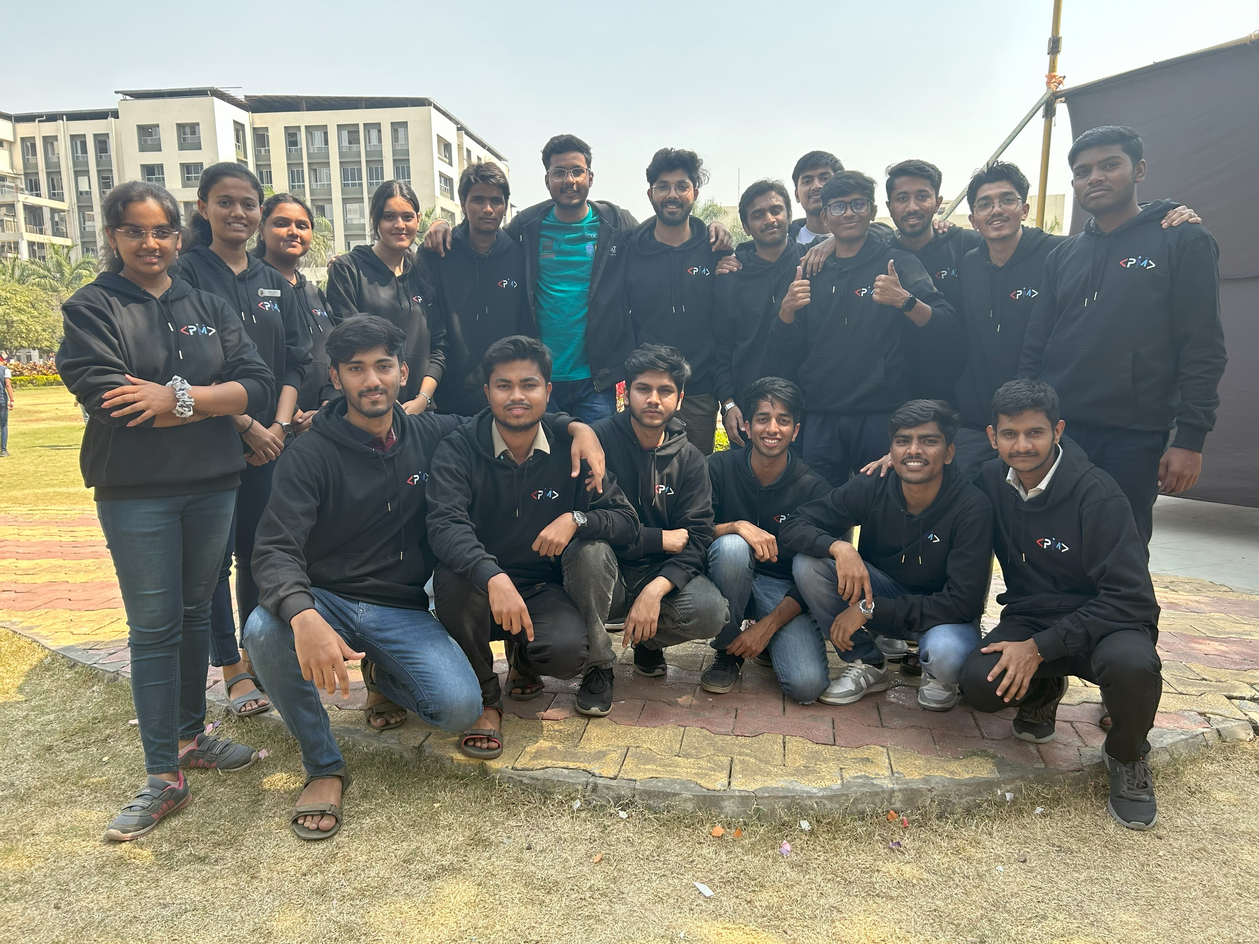
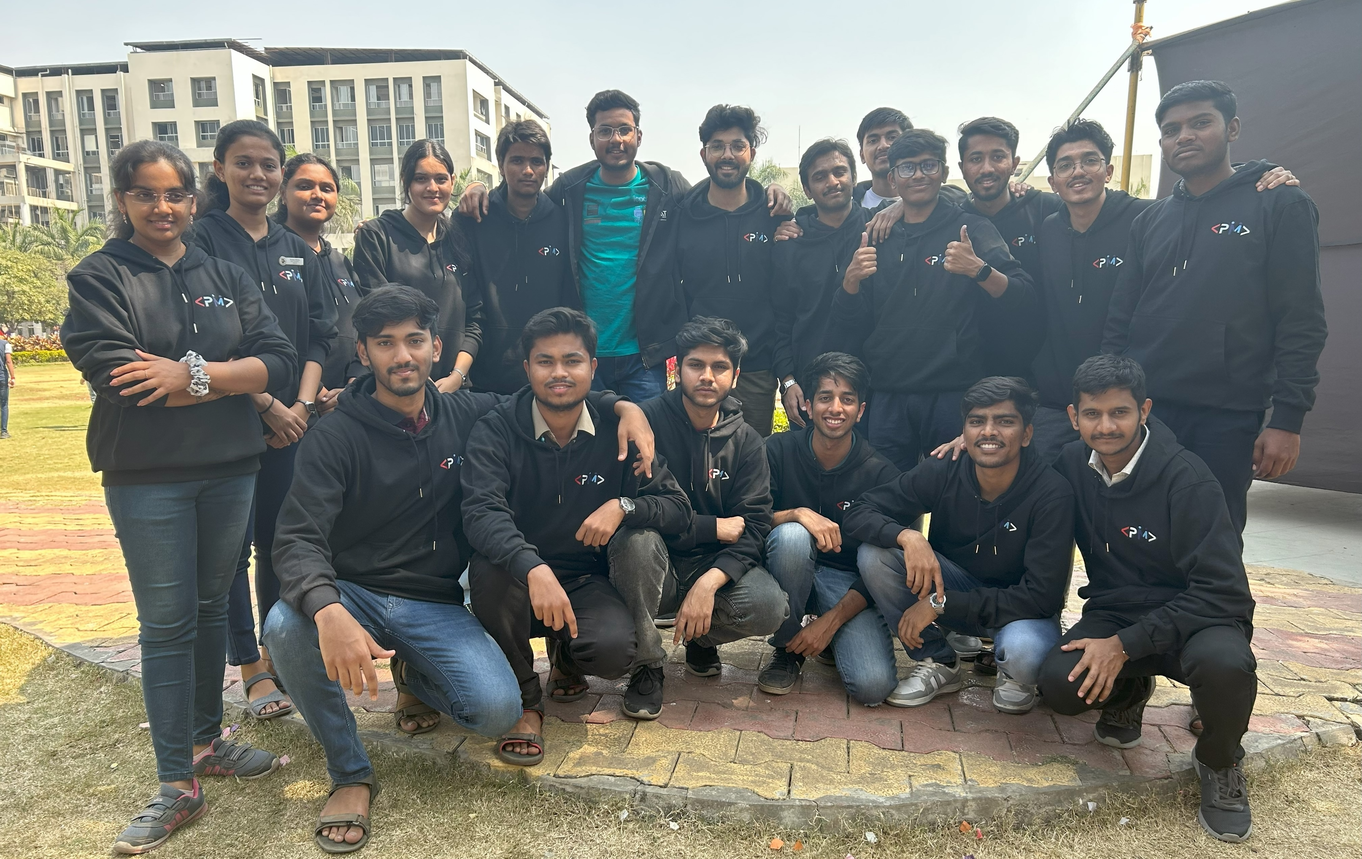
Bug fixes done.

diff --git a/pages/team/2k23/index.jsx b/pages/team/2k23/index.jsx
@@ -1,7 +1,8 @@
 import Head from 'next/head';
 import Image from 'next/image';
 import styles from '../../../styles/Home.module.css';
-import { Footer, Navbar, TeamPage } from '../../../components';
+import { Footer, Navbar } from '../../../components';
+import Team2K23Page from '../../../components/TeamPage/Team2k23';
 
 const Team2K23 = () => {
   return (
@@ -17,7 +18,7 @@ DYPCOE, Pune."
         <link rel="icon" href="/favicon.ico" />
       </Head>
       <Navbar />
-      <TeamPage />
+      <Team2K23Page />
       <Footer />
     </>
   );

diff --git a/components/TeamPage/Team2k24.jsx b/components/TeamPage/Team2k24.jsx
@@ -21,7 +21,7 @@ const Team2K24Page = () => {
       <div className={classes.team_section}>
         <div className={classes.imgDiv}>
 
-      <Image alt="xyz" className={classes.image} src={team} height={2000} />
+      <Image alt="xyz" className={classes.image2k24} src={team} height={2000} />
         </div>
         <h1 className={classes.heading}>
           FACULTY <span className={classes.red}>CO-ORDINATOR</span>

diff --git a/components/TeamPage/TeamPage.jsx b/components/TeamPage/TeamPage.jsx
@@ -21,7 +21,7 @@ const TeamPage = () => {
       <div className={classes.team_section}>
         <div className={classes.imgDiv}>
 
-      <Image alt="xyz" className={classes.image} src={team} height={2000} />
+      <Image alt="xyz" className={classes.image2k24} src={team} height={2000} />
         </div>
         <h1 className={classes.heading}>
           FACULTY <span className={classes.red}>CO-ORDINATOR</span>

diff --git a/components/TeamPage/tp.module.css b/components/TeamPage/tp.module.css
@@ -70,6 +70,13 @@
   object-fit: cover;
 }
 
+.image2k24{
+  width: 70%;
+  border-radius: 1rem;
+  object-fit: cover;
+  object-position: 100% 30%;
+}
+
 .heading2 {
   margin: 50px 0 100px 0;
   color: #fff;
